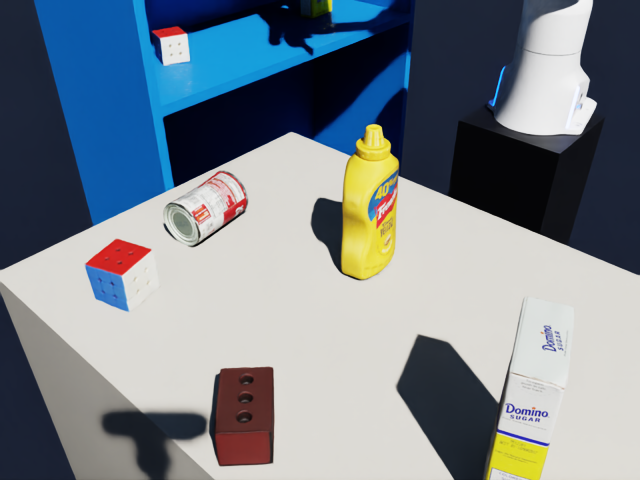
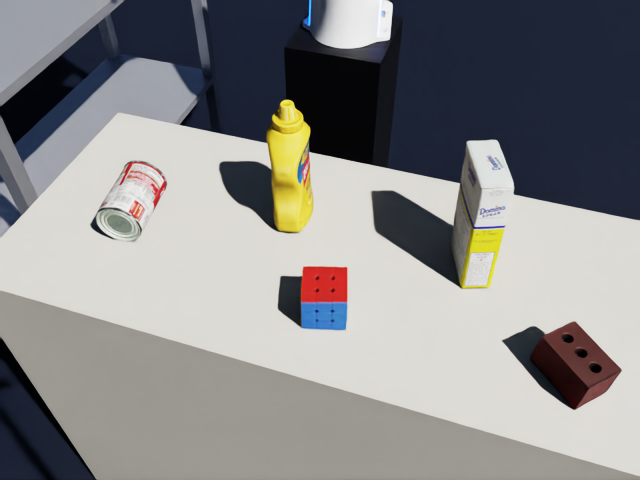
docs: document the pantry cell and re-measured stage 5; log D-041

diff --git a/docs/STAGE5_PLACE.md b/docs/STAGE5_PLACE.md
@@ -26,7 +26,7 @@ The shelf in the Isaac Sim cell ([SIM.md](SIM.md)), seen by a **wrist camera**: 
 | Camera intrinsics `K` | `data/sim/shelf/cam_K.txt` |
 | Camera pose in the robot base `T_base_cam` | `data/sim/shelf/T_base_cam.txt` — on a real robot: joint angles (forward kinematics) + hand-eye calibration. **Gives "up"** |
 | Object to place | `assets/ycb/<--object>/textured.obj` → footprint radius + height (placed upright) |
-| Ground truth (only for checking) | `data/sim/shelf/shelf.json`: board heights 0.05 / 0.45 m |
+| Ground truth (only for checking) | `data/sim/shelf/shelf.json`: board heights −0.35 / 0.05 / 0.45 / 0.95 / 1.30 m |
 | **Supports, free space, candidates** | terminal + `output/place/<tag>.png` |
 
 No shelf model is used: every horizontal surface the camera sees is a possible place to put things.
@@ -69,10 +69,10 @@ depth + up ─► points + normals ─► horizontal points ─► sequential RA
 | Step | What happens | Here |
 |---|---|---|
 | 1. Points + up | Depth → 3D points, moved into the robot base frame (z = up) with `T_base_cam` | 307k points |
-| 2. Normals | Surface direction at each pixel from its neighbours (±3 px). Keep points facing up (within 10°) | 233k |
-| 3. Planes | RANSAC on those points: biggest horizontal plane, remove it, repeat (sequential RANSAC) | 4 planes |
-| 4. Supports | Each plane cut into connected pieces on a 1 cm grid: one shelf level, the floor... | 6 supports |
-| 5. Ceiling | The lowest support above that overlaps this one = its ceiling. Headroom = ceiling − height | 400 mm on the bottom board; top board: open |
+| 2. Normals | Surface direction at each pixel from its neighbours (±3 px). Keep points facing up (within 10°) | 250k |
+| 3. Planes | RANSAC on those points: biggest horizontal plane, remove it, repeat (sequential RANSAC) | 5 planes |
+| 4. Supports | Each plane cut into connected pieces on a 1 cm grid: one shelf level, the floor... | 8 supports |
+| 5. Ceiling | The lowest support above that overlaps this one = its ceiling. Headroom = ceiling − height | 400 mm on the −0.35 and 0.05 boards; 0.45 board: open (the board above it is out of view) |
 | 6. Cells | Like stage 3: **free** (only support points), **occupied** (≥ 3 points between the support and its ceiling), **unknown** (not seen) | — |
 | 7. Candidates | Clearance = distance to the nearest non-free cell. A cell fits if clearance ≥ footprint radius and headroom ≥ object height + hand. Best first, no overlaps | 6 |
 
@@ -80,18 +80,21 @@ depth + up ─► points + normals ─► horizontal points ─► sequential RA
 
 | Support | Height (GT) | Headroom | Candidates | Note |
 |---|---|---|---|---|
-| S0–S3 | −0.75 (floor) | open | out of reach | seen past and under the shelf |
-| S4 | 0.050 (0.05) | 400 mm | 3 | bottom board, around the sugar box and Rubik's cube; the back is hidden under the top board |
-| S5 | 0.450 (0.45) | open | 3 | top board, either side of the foam brick: most room (150 mm) → **best** |
+| S0–S4 | −0.75 (floor) | open | out of reach | seen past and under the pantry |
+| S5 | −0.349 (−0.35) | 400 mm | 0 | lowest board, mostly hidden under the 0.05 board: no spot with enough clearance |
+| S6 | 0.050 (0.05) | 400 mm | 3 | around the sugar box; the back is hidden under the 0.45 board |
+| S7 | 0.450 (0.45) | open | 3 | either side of the Rubik's cube and foam brick: most room (145 mm) → **best** |
 
-Both board heights match the ground truth to the millimetre.
+All three board heights match the ground truth to the millimetre. The 0.45 board shows as "open" because the board
+above it (0.95 m) is out of the wrist camera's view; MoveIt still has it, so a placement that needs more than its
+0.48 m is rejected when the motion is planned.
 
 ## Things to try
 
 | Try | Question |
 |---|---|
 | `--object 005_tomato_soup_can` | Smaller and shorter: where does it fit that the bottle doesn't? |
-| `--hand-clearance 0.15` | Only the top board is left. How much hand room do the lower levels really have? |
+| `--hand-clearance 0.15` | Only the 0.45 board is left. How much hand room do the lower levels really have? |
 | `--margin 0.04` | Which levels are too crowded now? |
 | `--resolution 0.02` | Coarser grid: do candidates move? |
 | Panel C of the bottom level | Why is the back half missing? (Where could the camera go to see it?) |

diff --git a/docs/SIM.md b/docs/SIM.md
@@ -19,12 +19,12 @@ base, horizontal placements with the hand 0.1–0.6 m high. Moving the shelf fur
 |---|---|
 | Robot | Franka Panda on a 20 cm pedestal at the origin. Home faces between the table and the shelf (joint 1 at −45°) |
 | Gripper | Franka Hand with fingers **5 cm longer** than stock (a box continuing each finger, in the sim and in MoveIt's model), squeezing with **140 N** ([D-036](DECISIONS.md#d-036)) |
-| Table | 0.55 × 0.80 m in front of the robot (x 0.35–0.90 m, y −0.30–0.50 m), top at z = 0 |
-| Pick targets | `006_mustard_bottle` (upright, random yaw ±30°) and `005_tomato_soup_can` (**lying on its side**, any yaw), 0.55–0.66 m from the base |
+| Table | 0.40 × 0.95 m, long side along y, in front of the robot (x 0.40–0.80 m, y −0.30–0.65 m), top at z = 0 |
+| Pick targets | `006_mustard_bottle` (upright, random yaw ±30°) and `005_tomato_soup_can` (**lying on its side**, any yaw), 0.55–0.65 m from the base |
 | Clutter | Sugar box, foam brick, Rubik's cube: obstacles, never targets. No potted meat can anywhere: YOLOE mistakes it for the tomato can ([I-025](DECISIONS.md#i-025)) |
-| Shelf | 0.80 m wide, 0.35 m deep, on the robot's right, opening towards it: front 0.47 m from the base, 0.17 m clear of the table. Boards at z = 0.05 and 0.45 m (0.38 m between them; the top one is open) |
-| Shelf items | Sugar box + Rubik's cube on the bottom board, foam brick on the top one: stage 5 must find the space around them |
-| Fixed camera | RealSense D455 (NVIDIA model) on a floor tripod, front-left of the table, ~0.75 m from the targets, looking 35° down. Pinhole 640×480, fx = fy = 615 ([D-007](DECISIONS.md#d-007)) |
+| Shelf | Metal pantry, 2.05 m tall: four corner posts and five boards, open at the back and sides ([D-041](DECISIONS.md#d-041)). 0.80 m wide, 0.35 m deep, on the robot's right: front 0.47 m from the base, 0.17 m clear of the table. Board tops at z = −0.35, 0.05, 0.45, 0.95 and 1.30 m; the arm works on 0.05 (0.38 m clear above) and 0.45 (0.48 m) |
+| Shelf items | Sugar box on the 0.05 m board, Rubik's cube + foam brick on the 0.45 m board: stage 5 must find the space around them |
+| Fixed camera | RealSense D455 (NVIDIA model) on a floor tripod beyond the table's far side, 0.85–0.95 m from the targets, all five items in view. Pinhole 640×480, fx = fy = 615 ([D-007](DECISIONS.md#d-007)) |
 | Wrist camera | D455 flat on the side of the hand, looking along the fingers. `robot.look_joints` puts it at (0.12, −0.12, 0.90) looking into the shelf |
 
 Both camera bodies and the tripod are visual only (no colliders), and never appear in their own images.
@@ -104,7 +104,7 @@ The workstation renders; the laptop only shows a WebRTC stream.
 | Knob | What |
 |---|---|
 | `sim.objects` | `{name, xy, yaw_deg, tilt_deg, target}` per table item. `yaw_deg` fixed or `[lo, hi]` (random per frame); `tilt_deg: 90` = on its side; `target: true` = save mask + ground truth |
-| `sim.shelf`, `sim.shelf_objects` | Footprint, board heights, thickness; items on the boards `{name, level, x, yaw_deg}` |
+| `sim.shelf`, `sim.shelf_objects` | Footprint, board heights, board and post thickness; items on the boards `{name, level, x, yaw_deg}` (level = index into `levels_z`) |
 | `robot.home_joints`, `robot.look_joints` | Home pose; the pose for the shelf shot |
 | `gripper.finger_extension` | Extra finger length (sim, MoveIt model, grasp model, TCP) |
 | `sim.gripper` | Finger drive: stiffness, max force (N), pad friction |

diff --git a/docs/DECISIONS.md b/docs/DECISIONS.md
@@ -53,6 +53,7 @@ along the way. Newest entries go at the bottom of each list.
 | [D-038](#d-038) | 2026-09-30 | Keep only the necessary safety / reliability logic in the task | Accepted |
 | [D-039](#d-039) | 2026-09-30 | Vision reliability: vision nodes detect and report, the behavior tree decides | Proposed |
 | [D-040](#d-040) | 2026-09-30 | Shelf stays at its D-035 distance; STOMP joins the planners after "via home" | Accepted |
+| [D-041](#d-041) | 2026-09-30 | Floor-standing metal pantry, long narrow table, fixed camera re-aimed | Accepted |
 
 ### D-001
 **Keep YOLOE-seg (not OWLv2 + SAM2).** One `ultralytics` model gives box + mask in a single pass and was
@@ -386,6 +387,21 @@ replace "via home": it only bends the direct line locally, and 7 carries found n
 home. So the order is PTP → via home → STOMP → RRTConnect: straight line, straight lines through a hub pose, an
 optimizer, a sampler. RRTConnect is OMPL's bidirectional RRT. CHOMP was not added: like STOMP it optimizes the direct
 line, but needs a distance field of the scene. The four-planner order has not yet been re-measured at 0.47 m.
+
+### D-041
+**Metal pantry and a long, narrow table** (config.yaml `sim:`; boxes shared by the sim and MoveIt: `vision.shelf_boxes`).
+
+| | Before (D-035) | After |
+|---|---|---|
+| Shelf | 2 boards (0.05 / 0.45 m), side and back panels, open top | Pantry 2.05 m tall: 4 corner posts, boards at −0.35 / 0.05 / 0.45 / 0.95 / 1.30 m, open back and sides, steel material |
+| Table | 0.55 × 0.80 m (x 0.35–0.90) | 0.40 × 0.95 m (x 0.40–0.80, y −0.30–0.65) |
+| Items | targets 0.55–0.66 m out | same distances; clutter re-spaced along the table |
+| Fixed camera | eye (1.07, 0.42, 0.50), ~0.75 m from the targets | eye (1.15, 0.32, 0.64), 0.85–0.95 m: all five items in view. Tripod legs turned away from the table |
+
+The 0.45 m board now has a board above it. With that board at 0.85 m (0.38 m clear), 2 of 4 episodes had no
+collision-free carry onto 0.45 (once each target); at 0.95 m (0.48 m clear), 3 episodes: **mustard 3/3, tomato can
+3/3**, with placements on both the 0.05 and the 0.45 board. The wrist camera's look pose is unchanged; it sees the
+0.05 and 0.45 boards, not the ones above.
 
 ## Issues
 

diff --git a/README.md b/README.md
@@ -6,7 +6,7 @@ put it — with no object-specific training and no prior model of the shelf.
 
 ![Isaac Sim cell: Franka Panda, table with YCB objects, shelf, fixed RealSense D455 on a tripod and a wrist-mounted D455](docs/sim/overview.png)
 
-*Simulated cell (Isaac Sim 6.1): Franka Panda with lengthened fingers, a table of YCB objects, a two-level shelf as the
+*Simulated cell (Isaac Sim 6.1): Franka Panda with lengthened fingers, a table of YCB objects, a metal pantry as the
 place target, a fixed RealSense D455 over the table, and a wrist-mounted D455 that looks into the shelf.*
 
 ## Pipeline
@@ -43,8 +43,8 @@ checking. Guide: [docs/ROS.md](docs/ROS.md).
 | 2 Pose | Sim, vs. ground truth: **0.5–1.5°, < 1 mm** (upright bottle and a can lying on its side) · ~0.9 s / registration |
 | 3 Table | Table plane from 52 % of the points; recovered bottle height 92 mm vs. 96 mm true (pose and plane agree) |
 | 4 Grasp | 2 of 8 candidates feasible; best approaches 2° from vertical |
-| 5 Place | Both shelf boards found at their true heights (0.05 / 0.45 m) · 6 placements ranked by clearance · 0.2 s |
-| Whole task | 10 randomised episodes, perception to placement: **mustard 10/10, tomato can 8/10** (stood upright) · 77 % of moves a single straight joint-space line |
+| 5 Place | The three visible pantry boards found at their true heights (−0.35 / 0.05 / 0.45 m) · 6 placements ranked by clearance · 0.2 s |
+| Whole task | Randomised episodes, perception to placement: **mustard 10/10, tomato can 8/10** (stood upright, 10 episodes, two-board shelf) · 3/3 each in the pantry cell ([D-041](docs/DECISIONS.md#d-041)) · 77 % of moves a single straight joint-space line |
 
 Stage-by-stage details, numbers and failure cases are in each guide below.
 
